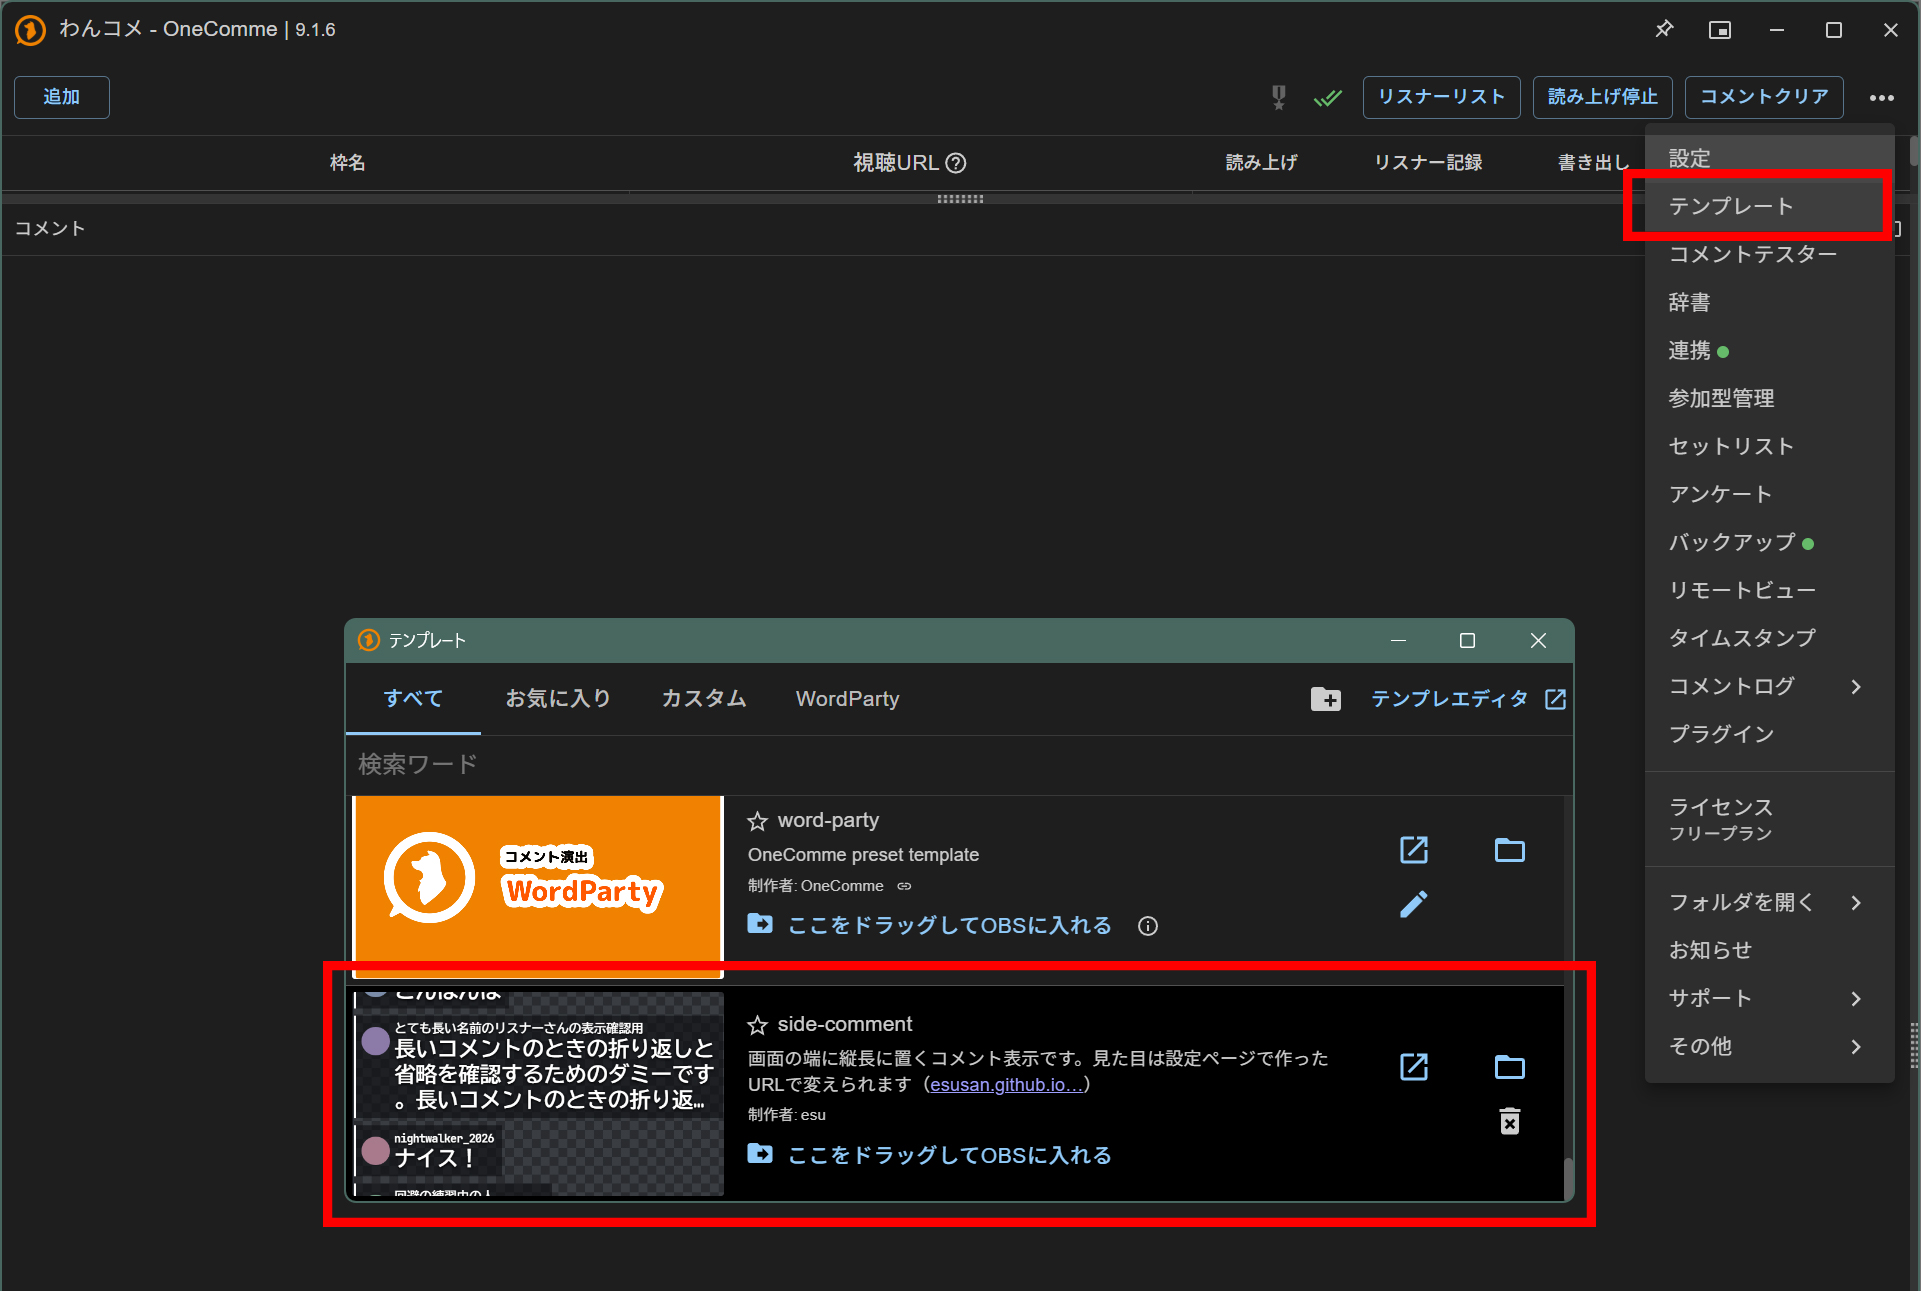
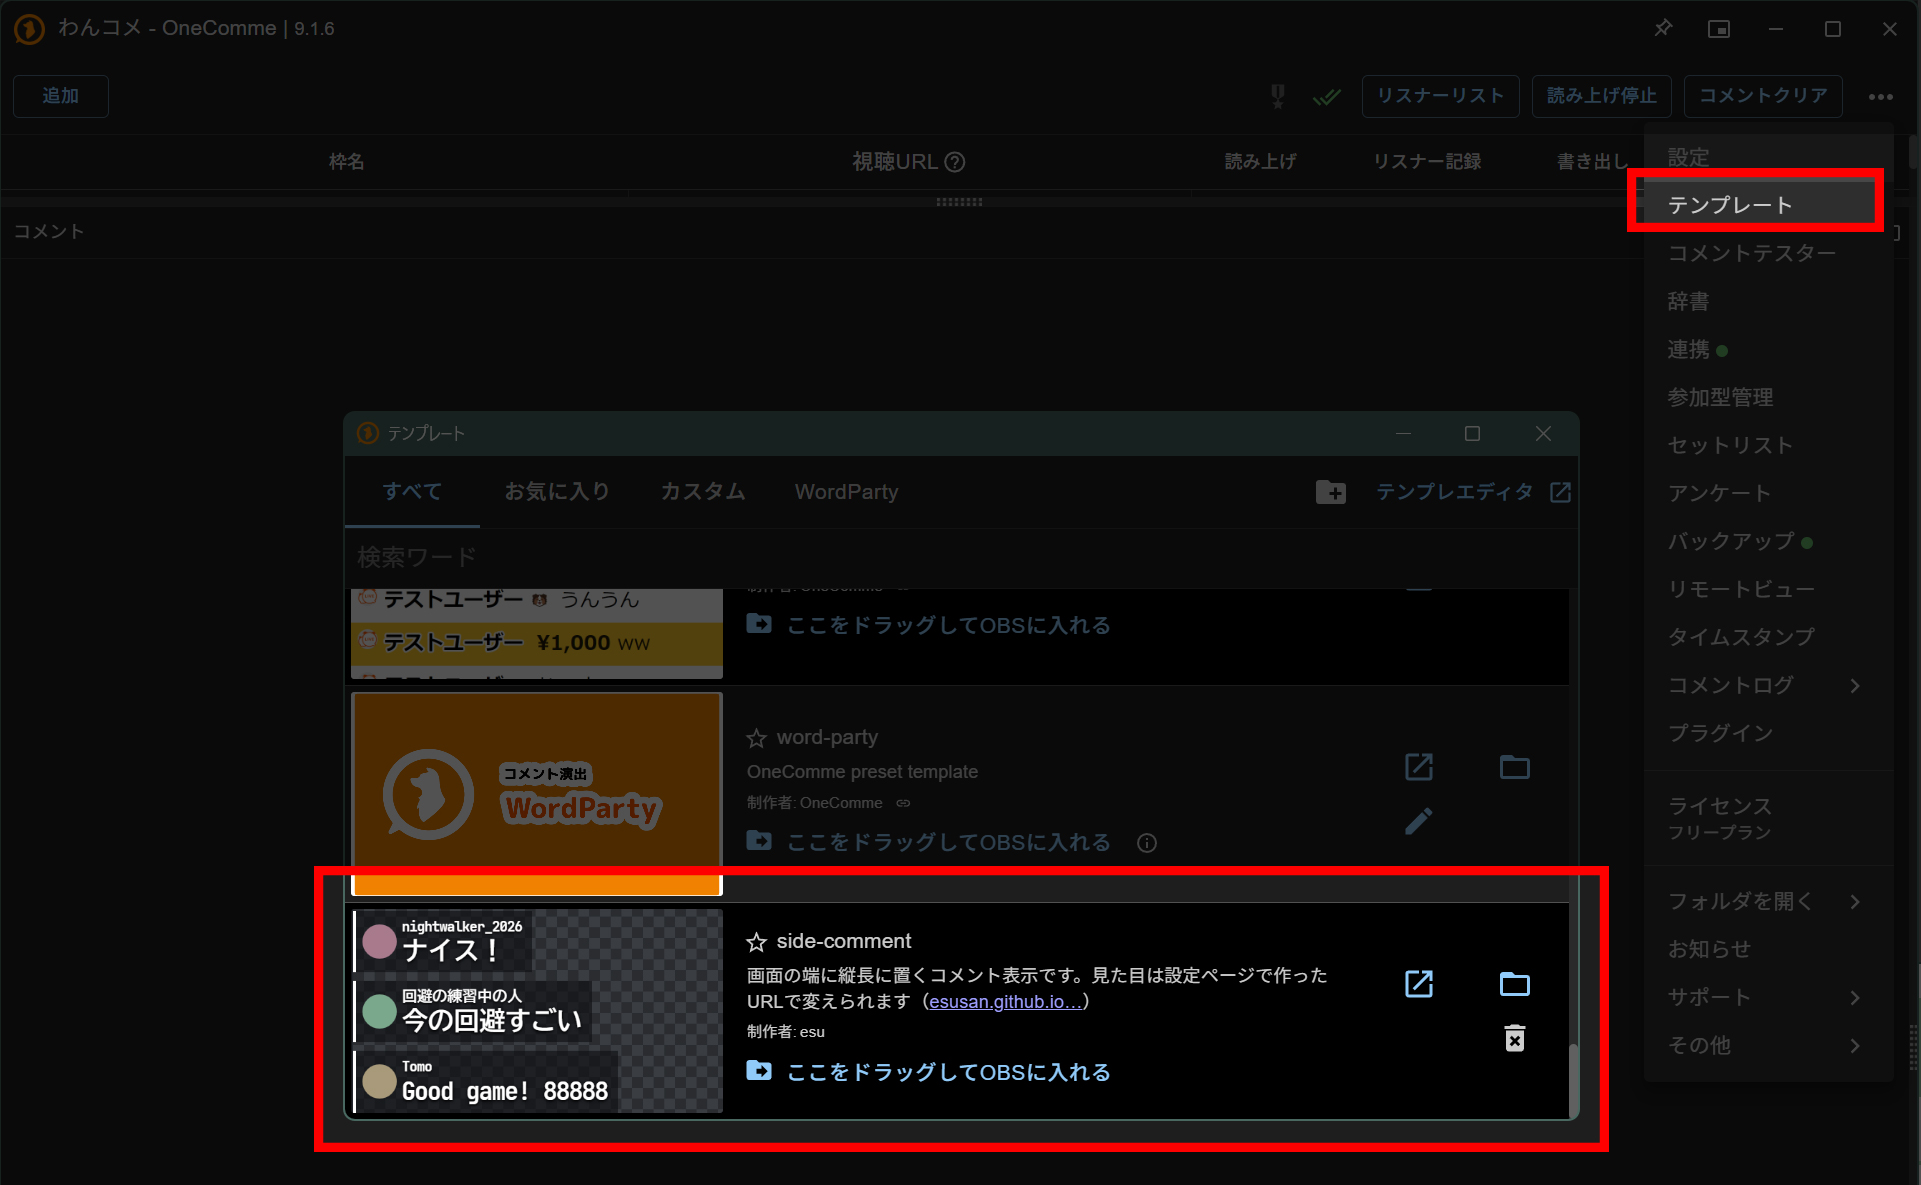
手順3のスクショを差し替え、テンプレート画面の開き方とURL末尾の説明を追加、READMEを更新

diff --git a/index.html b/index.html
@@ -283,11 +283,11 @@
       <img class="shot" src="img/install-folder.png" alt="customフォルダの中にside-commentフォルダが入っている状態" width="976" height="346">
     </li>
     <li>
-      <p>わんコメのテンプレート画面に side-comment が出ていればOKです（わんコメが認識できているかの確認だけです）。出ていなければ、わんコメを起動し直してください。</p>
-      <img class="shot" src="img/template-list.jpg" alt="わんコメのメニューのテンプレートを開き、一覧にside-commentが表示されている状態" width="1921" height="1291">
+      <p>わんコメのテンプレート画面（右上の「…」メニュー →「テンプレート」）に side-comment が出ていればOKです（わんコメが認識できているかの確認だけです）。出ていなければ、わんコメを起動し直してください。</p>
+      <img class="shot" src="img/template-list.jpg" alt="わんコメのメニューのテンプレートを開き、一覧にside-commentが表示されている状態" width="1921" height="1185">
     </li>
     <li>
-      <p>OBSにブラウザソースを追加し、「ローカルファイル」のチェックを外したまま、URLにこれを貼ります。上で選んだ見た目が入っています。</p>
+      <p>OBSにブラウザソースを追加し、「ローカルファイル」のチェックを外したまま、URLにこれを貼ります。上で選んだ見た目の設定がURLの末尾に入っています。</p>
       <div class="output">
         <code id="url"></code>
         <button type="button" id="copy">コピー</button><span class="copied" id="copied" hidden>コピーしました</span>

diff --git a/README.md b/README.md
@@ -15,8 +15,10 @@
 
 1. [設定ページ](https://esusan.github.io/onecomme-side-comment/)の「テンプレートをダウンロード」でzipをダウンロードして展開します
 2. `side-comment` フォルダを `%APPDATA%\onecomme\templates\custom\` に入れます
-3. わんコメを起動し直します（テンプレート画面に side-comment が出ていれば大丈夫です）
-4. 設定ページで見た目を決めてURLをコピーし、OBSのブラウザソース（「ローカルファイル」はオフ）に貼ります
+3. わんコメのテンプレート画面（右上の「…」メニュー →「テンプレート」）に side-comment が出ていればOKです。出ていなければ、わんコメを起動し直してください
+4. 設定ページで見た目を決めてURLをコピーし、OBSのブラウザソース（「ローカルファイル」はオフ）に貼ります。見た目の設定はURLの末尾に入っています
+5. ブラウザソースの幅を設定ページに出る数字に合わせます。文字の大きさ・1行の文字数・アイコンを変えたときは、幅も合わせ直してください
+6. 配信の前に、わんコメのコメントテスター（右上の「…」メニュー →「コメントテスター」）でコメントを流して、表示を確かめておくのがおすすめです
 
 見た目を変えるときは、URLを貼り直すだけで大丈夫です。ダウンロードしたzipの `config.js` にもその時の設定が入るため、わんコメからドラッグして入れた場合（ローカルファイル指定でURLの設定が付きません）はその設定で表示されます。URLパラメータがあるときはそちらが優先されます。
 
